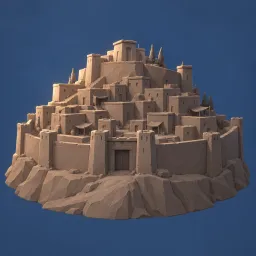
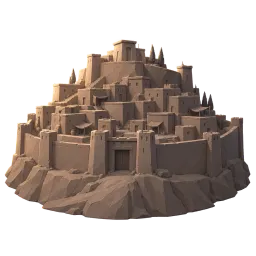
feat(expo): draw the ground behind cut-out entity portraits
Characters, their stages and the bundled placeholders are now published cut
out. The app draws their ground as a radial gradient: the dusk blue they were
painted on in a dark theme, the light primary deepened towards the primary in
a light one. Places, God and Lucifer keep their painting. In the Bible,
thumbnails get a white contour and a light shadow.

diff --git a/apps/expo/src/features/bible/BibleDOM/ChapterEntities.tsx b/apps/expo/src/features/bible/BibleDOM/ChapterEntities.tsx
@@ -9,14 +9,16 @@ import type {
 import type { StrongLexiconModuleAvailability } from '~helpers/strongLexiconModules'
 import type { BibleDOMDownloadState, RootStyles } from './BibleDOMWrapper'
 import ChapterEntitiesOverlay from './ChapterEntitiesOverlay'
-import { getChapterEntityAvatar } from './chapterEntityAvatar'
+import { CHAPTER_ENTITY_AVATAR_SHADOW, getChapterEntityAvatar } from './chapterEntityAvatar'
 import {
   getEntityAvatarRadius,
+  getEntityPortraitGround,
   type EntityPortraitSources,
 } from '~features/lexique/entityPortraits'
 import { getChapterEntitiesViewMode, splitChapterEntities } from './chapterEntitiesPresentation'
 import { useBibleOverlayOpen } from './overlayLifecycle'
 import { getOverlayLayoutTransition } from './overlayStagger'
+import { isDarkTheme } from './utils'
 
 const MAX_STACKED_ENTITIES = 3
 const AVATAR_SIZE = 62
@@ -68,6 +70,7 @@ const ChapterEntities = ({
   if (viewMode === 'hidden' && !chapterResources) return null
 
   const colors = settings.colors[settings.theme]
+  const portraitGround = getEntityPortraitGround(isDarkTheme(settings.theme), colors)
   const isDownloading = ['queued', 'downloading', 'inserting'].includes(downloadState.status ?? '')
   const progress = Math.max(0, Math.min(1, downloadState.progress))
   const { painted, stacked } = splitChapterEntities(entities, portraits)
@@ -154,7 +157,10 @@ const ChapterEntities = ({
                   width: AVATAR_SIZE,
                   height: AVATAR_SIZE,
                   margin: '0 auto 6px',
+                  border: `2px solid ${colors.reverse}`,
                   borderRadius: getEntityAvatarRadius(AVATAR_SIZE),
+                  background: portraitGround,
+                  boxShadow: CHAPTER_ENTITY_AVATAR_SHADOW,
                   objectFit: 'cover',
                 }}
               />
@@ -345,6 +351,8 @@ const ChapterEntities = ({
                         placeSelf: 'center',
                         border: `2px solid ${colors.reverse}`,
                         borderRadius: getEntityAvatarRadius(AVATAR_SIZE),
+                        background: portraitGround,
+                        boxShadow: CHAPTER_ENTITY_AVATAR_SHADOW,
                         objectFit: 'cover',
                         x: position * 6,
                         y: Math.abs(position) * 2,
@@ -362,6 +370,7 @@ const ChapterEntities = ({
                 groupLabels={translations.groups}
                 openEntityLabel={translations.openEntity}
                 colors={colors}
+                portraitGround={portraitGround}
                 fontFamily={settings.fontFamily}
                 visibleStackItemCount={stackedEntities.length}
                 isOpen={isOverlayOpen}

diff --git a/apps/expo/src/features/lexique/StrongEntityAvatar.tsx b/apps/expo/src/features/lexique/StrongEntityAvatar.tsx
@@ -1,14 +1,17 @@
 import { Image } from 'expo-image'
+import { StyleSheet, View } from 'react-native'
 
 import { getEntityAvatarRadius } from './entityPortraits'
 import { useEntityPortraitHash } from './entityPortraitManifest'
 import { getStrongEntityPlaceholderSource } from './strongEntityAvatars'
+import { useEntityPortraitGround } from './useEntityPortraitGround'
 import { useEntityPortraitImage } from './useEntityPortraitImage'
 
 /**
  * An entity's portrait, from the offline pack when the device holds it, otherwise from the media
  * host, or its placeholder when it has none or the portrait cannot be loaded (ADR-0089). While a
- * portrait loads, the square stays empty, so a grey face never turns into a painted one.
+ * portrait loads, the square shows only its ground, so a grey face never turns into a painted one.
+ * Characters are cut out: the square draws their ground (`getEntityPortraitGround`).
  */
 const StrongEntityAvatar = ({
   uniqueName,
@@ -26,33 +29,36 @@ const StrongEntityAvatar = ({
 }) => {
   const hash = useEntityPortraitHash(uniqueName)
   const portrait = useEntityPortraitImage(uniqueName, hash, 'w256')
+  const ground = useEntityPortraitGround()
   const style = {
     width: size,
     height: size,
     borderRadius: getEntityAvatarRadius(size),
     borderCurve: 'continuous' as const,
-  }
-
-  if (portrait.uri) {
-    return (
-      <Image
-        source={{ uri: portrait.uri }}
-        style={style}
-        contentFit="cover"
-        cachePolicy="memory-disk"
-        transition={150}
-        recyclingKey={portrait.uri}
-        onError={portrait.onError}
-      />
-    )
+    overflow: 'hidden' as const,
+    experimental_backgroundImage: ground,
   }
 
   return (
-    <Image
-      source={getStrongEntityPlaceholderSource(category, type, uniqueName ?? seed ?? '')}
-      style={style}
-      contentFit="cover"
-    />
+    <View style={style}>
+      {portrait.uri ? (
+        <Image
+          source={{ uri: portrait.uri }}
+          style={StyleSheet.absoluteFill}
+          contentFit="cover"
+          cachePolicy="memory-disk"
+          transition={150}
+          recyclingKey={portrait.uri}
+          onError={portrait.onError}
+        />
+      ) : (
+        <Image
+          source={getStrongEntityPlaceholderSource(category, type, uniqueName ?? seed ?? '')}
+          style={StyleSheet.absoluteFill}
+          contentFit="cover"
+        />
+      )}
+    </View>
   )
 }
 

diff --git a/apps/expo/src/features/lexique/StrongEntityPortraitHeader.tsx b/apps/expo/src/features/lexique/StrongEntityPortraitHeader.tsx
@@ -20,6 +20,7 @@ import {
   type EntityPortraitEntry,
 } from './entityPortraits'
 import { getEntityLabel } from './StrongDetailUI'
+import { useEntityPortraitGround } from './useEntityPortraitGround'
 import { useEntityPortraitImage } from './useEntityPortraitImage'
 
 const STAGE_TILE_SIZE = 92
@@ -41,6 +42,7 @@ const StageTile = ({
   onPress: () => void
 }) => {
   const image = useEntityPortraitImage(uniqueName, hash, 'w256')
+  const ground = useEntityPortraitGround()
   const radius = getEntityAvatarRadius(STAGE_TILE_SIZE)
   return (
     <TouchableBox
@@ -63,11 +65,12 @@ const StageTile = ({
         }}
       >
         <Box
-          className="overflow-hidden border-continuous bg-canvas"
+          className="overflow-hidden border-continuous"
           style={{
             width: STAGE_TILE_SIZE - 10,
             height: STAGE_TILE_SIZE - 10,
             borderRadius: radius - 5,
+            experimental_backgroundImage: ground,
           }}
         >
           {!!image.uri && (
@@ -116,6 +119,7 @@ const StrongEntityPortraitHeader = ({
   const [stageKey, setStageKey] = useState<string>()
   const stage = entry.stages?.find(item => item.key === stageKey)
   const image = useEntityPortraitImage(entity.uniqueName, stage?.hash ?? entry.hash, 'w768')
+  const ground = useEntityPortraitGround()
   const title = stage?.label ?? entry.title
   const series = getEntitySeriesPlace(catalog, entity.uniqueName)
   const roles = (entry.roles ?? []).flatMap(role =>
@@ -130,8 +134,8 @@ const StrongEntityPortraitHeader = ({
     <VStack className="overflow-hidden border-continuous gap-[14px]">
       <Box className="overflow-hidden border-continuous bg-surface rounded-[24px] p-[10px]">
         <Box
-          className="overflow-hidden border-continuous bg-canvas rounded-[16px]"
-          style={{ aspectRatio: 1 }}
+          className="overflow-hidden border-continuous rounded-[16px]"
+          style={{ aspectRatio: 1, experimental_backgroundImage: ground }}
         >
           {!!image.uri && (
             <Image

diff --git a/apps/expo/src/features/lexique/entityPortraits.ts b/apps/expo/src/features/lexique/entityPortraits.ts
@@ -1,4 +1,5 @@
 // Shared by the native screens and the Bible DOM: no React Native import here.
+import Color from 'color'
 
 /** The portraits of biblical entities on the public media host (ADR-0089). */
 export const ENTITY_PORTRAIT_BASE_URL = 'https://media.bible-strong.app/entity-images'
@@ -19,6 +20,21 @@ export const getEntityPortraitUri = (
  * tiles (radius 8 on 30).
  */
 export const getEntityAvatarRadius = (size: number) => Math.round(size * 0.27)
+
+/**
+ * The ground behind a portrait, as a CSS background: characters are published cut out, so the app
+ * draws the dusk blue they were painted on in a dark theme and, in a light one, the theme's light
+ * primary deepened towards its primary at the centre (ADR-0089). Places keep their painting, which
+ * covers it.
+ */
+export const getEntityPortraitGround = (
+  dark: boolean,
+  colors: { primary: string; lightPrimary: string }
+) => {
+  if (dark) return 'radial-gradient(circle at 50% 35%, #4d6a99 0%, #2e466a 55%, #1b2a43 100%)'
+  const centre = Color(colors.lightPrimary).mix(Color(colors.primary), 0.22).rgb().string()
+  return `radial-gradient(circle at 50% 35%, ${centre} 0%, ${colors.lightPrimary} 75%)`
+}
 
 /** Unique name → hash of the picture to show. An entity absent from it has none. */
 export type EntityPortraitHashes = Record<string, string>

diff --git a/apps/expo/src/features/bible/BibleDOM/ChapterEntitiesOverlay.tsx b/apps/expo/src/features/bible/BibleDOM/ChapterEntitiesOverlay.tsx
@@ -6,7 +6,7 @@ import type {
   StrongLexiconChapterEntity,
   StrongLexiconEntityCategory,
 } from '~features/resources/strongLexiconAccess'
-import { getChapterEntityAvatar } from './chapterEntityAvatar'
+import { CHAPTER_ENTITY_AVATAR_SHADOW, getChapterEntityAvatar } from './chapterEntityAvatar'
 import {
   getEntityAvatarRadius,
   type EntityPortraitSources,
@@ -33,6 +33,8 @@ type Props = {
     reverse: string
     surfaceRaised: string
   }
+  /** The ground drawn behind the cut-out portraits (`getEntityPortraitGround`). */
+  portraitGround: string
   fontFamily: string
   visibleStackItemCount: number
   isOpen: boolean
@@ -46,6 +48,7 @@ const ChapterEntitiesOverlay = ({
   groupLabels,
   openEntityLabel,
   colors,
+  portraitGround,
   fontFamily,
   visibleStackItemCount,
   isOpen,
@@ -186,6 +189,8 @@ const ChapterEntitiesOverlay = ({
                       margin: '0 auto 8px',
                       border: `2px solid ${colors.reverse}`,
                       borderRadius: getEntityAvatarRadius(68),
+                      background: portraitGround,
+                      boxShadow: CHAPTER_ENTITY_AVATAR_SHADOW,
                       objectFit: 'cover',
                     }}
                   />

diff --git a/apps/expo/src/features/lexique/__tests__/entityPortraits-test.ts b/apps/expo/src/features/lexique/__tests__/entityPortraits-test.ts
@@ -3,6 +3,7 @@ import {
   getEntitySeriesPlace,
   getEntityPlaceholderIndex,
   getEntityChapterPortraitHash,
+  getEntityPortraitGround,
   getEntityPortraitPictures,
   getEntityPortraitText,
   planEntityPortraitPack,
@@ -18,6 +19,19 @@ describe('entity portraits', () => {
     expect(getEntityPortraitUri('Paul@Act.7.58-2Pe', 'abcdef', 'w768')).toMatch(
       /\/abcdef\/w768\.webp$/
     )
+  })
+
+  it('draws the dusk blue behind a portrait in a dark theme, the light primary in a light one', () => {
+    const dark = { primary: 'rgb(14, 211, 185)', lightPrimary: 'rgba(14, 211, 185, 0.5)' }
+    expect(getEntityPortraitGround(true, dark)).toMatch(/^radial-gradient\(.*#2e466a/)
+    expect(getEntityPortraitGround(true, dark)).not.toContain('14, 211')
+    // The centre leans towards the primary blue, the edge keeps the light primary.
+    expect(
+      getEntityPortraitGround(false, {
+        primary: 'rgb(89,131,240)',
+        lightPrimary: 'rgb(233, 243, 252)',
+      })
+    ).toBe('radial-gradient(circle at 50% 35%, rgb(201, 218, 249) 0%, rgb(233, 243, 252) 75%)')
   })
 
   it('keeps the well-formed entries of a catalog', () => {

diff --git a/apps/expo/src/features/lexique/useEntityPortraitGround.ts b/apps/expo/src/features/lexique/useEntityPortraitGround.ts
@@ -1,0 +1,12 @@
+import { isDarkTheme } from '~features/bible/BibleDOM/utils'
+import themes, { themeNames } from '~themes'
+import { useTheme } from '~themes/ThemeProvider'
+
+import { getEntityPortraitGround } from './entityPortraits'
+
+/** The ground behind a cut-out portrait in the current theme, as a `experimental_backgroundImage`. */
+export const useEntityPortraitGround = () => {
+  const theme = useTheme()
+  const name = themeNames.find(item => themes[item].colors === theme.colors) ?? 'default'
+  return getEntityPortraitGround(isDarkTheme(name), theme.colors)
+}

diff --git a/apps/expo/src/features/bible/BibleDOM/chapterEntityAvatar.ts b/apps/expo/src/features/bible/BibleDOM/chapterEntityAvatar.ts
@@ -33,3 +33,7 @@ export const getChapterEntityAvatar = (
     },
   }
 }
+
+/** A light shadow that lifts a thumbnail and shows its white contour on the page. */
+export const CHAPTER_ENTITY_AVATAR_SHADOW =
+  '0 1px 2px rgba(16, 27, 53, 0.12), 0 3px 10px rgba(16, 27, 53, 0.10)'

diff --git a/docs/adr/0089-serve-entity-portraits-from-the-media-host-by-unique-name.md b/docs/adr/0089-serve-entity-portraits-from-the-media-host-by-unique-name.md
@@ -82,8 +82,24 @@ hash of its `uniqueName`, modulo the number of placeholders of that key, by one 
 DOM, so an entity keeps the same face everywhere.
 
 A placeholder is shown for an entity without a portrait, and for an entity whose portrait cannot be
-loaded. While a portrait loads, the avatar shows its empty disc, so a grey face never flashes into a
-painted one.
+loaded. While a portrait loads, the avatar shows only its ground, so a grey face never flashes into
+a painted one.
+
+### Cut-out characters and their ground
+
+Amended 2026-10-28. The dusk-blue ground every character was painted on reads well in a dark theme
+but makes dark blocks in a light one. Characters, their stages and the placeholders are therefore
+published cut out, as WebP with transparency, and the application draws the ground behind every
+avatar and portrait card, native screens and Bible DOM alike, as a radial gradient: the dusk blue in
+a dark theme; in a light one, the theme's light primary, deepened towards its primary at the centre.
+The painted background is not published: a gradient stands in for it. In the Bible DOM, thumbnails
+also carry a white contour and a light shadow.
+
+Places keep their painting, which covers the ground, and so does every picture of God, his portrait
+and all his stages, and Lucifer, a being of light that leaves nothing to cut out. The catalog does
+not say which picture is cut out; a ground behind a painting is simply hidden. A cut-out is 768
+pixels wide: its `w1254` copy holds those 768 pixels. The card album (ADR-0090) uses the same
+copies.
 
 ### Offline
 
@@ -93,7 +109,7 @@ any other shows its placeholder.
 
 On iOS and Android, the reader may also download every portrait ahead, from a card of the Downloads
 screen (amended 2026-10-28). The pack holds the 256- and 768-pixel copies of every picture the
-catalog names, portraits and stages, about 30 MB for 482 pictures; the 1254-pixel copy stays online.
+catalog names, portraits and stages, about 38 MB for 482 pictures; the 1254-pixel copy stays online.
 The copies are stored in the application's documents, one folder per `hash`, and the device keeps
 the list of the pictures whose two copies are complete. Once the reader has asked for the pack, it
 follows the catalog: each new catalog downloads the pictures it adds and deletes the folders it no
